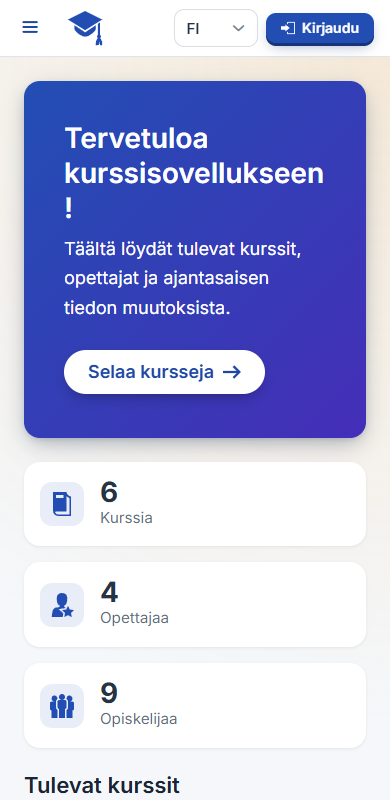
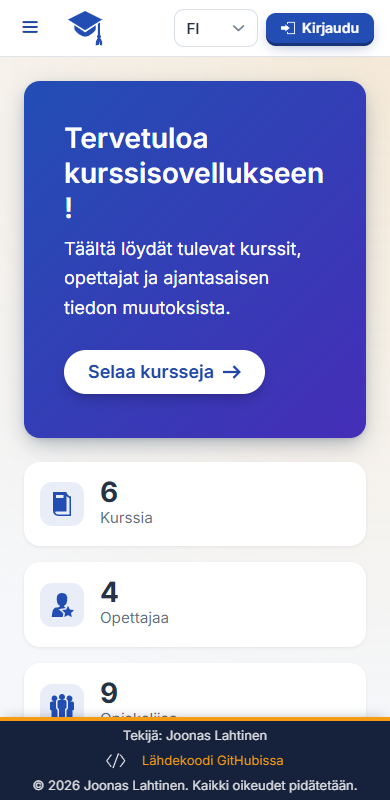
Vaatimustarkistuksen korjaukset: virhetilojen näkyvyys, suomenkieliset päivämääräkentät, footer kiinnitetty näkymän alaosaan
- Sähköposti- ja päivämääräkentät näyttävät nyt virheviestin (aiemmin Vaadinin oma
  validointi hylkäsi arvon tyhjällä viestillä)
- Virheelliset kentät korostetaan punaisella
- Footer pysyy ikkunan alareunassa (sticky), tiivis mobiilissa
- Raportin rivinumerot ja kuvaukset päivitetty

Claude-Session: https://claude.ai/code/session_01SbJ7ahXYquiG6siuov7Bdn

Changed region(s): [[0.0, 0.875, 1.0, 1.0]]

diff --git a/src/main/frontend/themes/kurssiteema/layout.css b/src/main/frontend/themes/kurssiteema/layout.css
@@ -89,17 +89,27 @@ vaadin-side-nav-item[current]::part(content) {
   min-height: calc(100vh - var(--vaadin-app-layout-navbar-offset-size, 56px));
 }
 
+/*
+ * Footer on kiinnitetty näkymän alaosaan (vaatimus 15): position: sticky + bottom: 0 pitää sen
+ * näkyvissä ikkunan alareunassa sisältöä vieritettäessä, ja sivun lopussa se asettuu luonnolliselle
+ * paikalleen sisällön alle. position: fixed peittäisi sivun viimeiset rivit pysyvästi ja vaatisi
+ * arvatun alamarginaalin sisällölle; sticky välttää molemmat.
+ */
 .app-footer {
+  position: sticky;
+  bottom: 0;
+  z-index: 2;
   flex-shrink: 0;
   display: flex;
   flex-wrap: wrap;
   justify-content: space-between;
   align-items: center;
-  gap: var(--lumo-space-s) var(--lumo-space-l);
-  padding: var(--lumo-space-m) var(--lumo-space-l);
+  gap: var(--lumo-space-xs) var(--lumo-space-l);
+  padding: var(--lumo-space-s) var(--lumo-space-l);
   background: hsl(222, 45%, 16%);
   color: hsla(0, 0%, 100%, 0.85);
   border-top: 4px solid var(--app-accent);
+  box-shadow: 0 -4px 12px -6px rgba(15, 23, 42, 0.35);
   font-size: var(--lumo-font-size-s);
 }
 
@@ -125,15 +135,22 @@ vaadin-side-nav-item[current]::part(content) {
   align-items: center;
 }
 
-/* Responsiivisuus: kapealla näytöllä footerin osiot pinotaan keskitetysti allekkain. */
+/* Responsiivisuus: kapealla näytöllä osiot pinotaan keskitetysti ja toissijaiset tiedot (kurssin nimi,
+   versio, Vaadin-linkki) piilotetaan, jotta aina näkyvä footer ei vie liikaa pystytilaa. */
 @media (max-width: 700px) {
   .app-footer {
     flex-direction: column;
     text-align: center;
+    padding: var(--lumo-space-xs) var(--lumo-space-m);
+    font-size: var(--lumo-font-size-xs);
   }
 
   .app-footer .footer-section {
     align-items: center;
+  }
+
+  .app-footer .footer-secondary {
+    display: none;
   }
 }
 

diff --git a/src/main/frontend/themes/kurssiteema/styles.css b/src/main/frontend/themes/kurssiteema/styles.css
@@ -95,6 +95,21 @@ vaadin-select[focused]::part(input-field) {
   box-shadow: 0 0 0 3px var(--lumo-primary-color-10pct);
 }
 
+/* Virhetila: koska yllä pakotetaan valkoinen tausta, Lumon oma punertava virhetausta ei näkyisi, ja
+   virheellinen kenttä erottuisi vain pienestä tekstistä. Punainen reuna + taustasävy palauttavat sen. */
+vaadin-text-field[invalid]::part(input-field),
+vaadin-email-field[invalid]::part(input-field),
+vaadin-password-field[invalid]::part(input-field),
+vaadin-integer-field[invalid]::part(input-field),
+vaadin-text-area[invalid]::part(input-field),
+vaadin-date-picker[invalid]::part(input-field),
+vaadin-combo-box[invalid]::part(input-field),
+vaadin-multi-select-combo-box[invalid]::part(input-field),
+vaadin-select[invalid]::part(input-field) {
+  border-color: var(--lumo-error-color);
+  background-color: var(--lumo-error-color-10pct);
+}
+
 /* --- Yleiskäyttöiset luokat --- */
 
 /* Hover/focus/transition-määritys kortille (vaatimus 10). Kortti zoomaa 3 % hoverissa; fokus näytetään

diff --git a/src/main/java/fi/lahtinen/kurssit/ui/components/FormFields.java b/src/main/java/fi/lahtinen/kurssit/ui/components/FormFields.java
@@ -1,0 +1,61 @@
+package fi.lahtinen.kurssit.ui.components;
+
+import com.vaadin.flow.component.datepicker.DatePicker;
+import com.vaadin.flow.component.textfield.EmailField;
+
+import java.util.List;
+import java.util.Locale;
+
+/**
+ * Yhtenäisesti konfiguroidut lomakekentät.
+ * <p>
+ * Syy erilliseen tehtaaseen: Vaadinin EmailField ja DatePicker validoivat syötteen myös itse
+ * (sähköpostin muoto, päivämäärän jäsennys) ennen Binderin Bean Validation -sääntöjä. Jos niiden
+ * omia virheviestejä ei aseteta, kenttä hylkää arvon <em>tyhjällä</em> viestillä eikä entiteetin
+ * annotaatioon kirjoitettu viesti koskaan näy. Lisäksi DatePickerin kalenteri on oletuksena englanniksi.
+ */
+public final class FormFields {
+
+    private static final String DEFAULT_MIN_MESSAGE = "Päivämäärä on liian aikainen";
+    private static final String DEFAULT_MAX_MESSAGE = "Päivämäärä ei voi olla tulevaisuudessa";
+
+    private FormFields() {
+    }
+
+    public static EmailField email(String label) {
+        EmailField field = new EmailField(label);
+        field.setI18n(new EmailField.EmailFieldI18n()
+                .setPatternErrorMessage("Sähköpostiosoite ei ole kelvollinen"));
+        return field;
+    }
+
+    /**
+     * Suomenkielinen päivämäärävalitsin. Muoto d.M.yyyy ja viikon alku maanantaina vastaavat
+     * suomalaista käytäntöä; Locale asetetaan, jotta myös käsin kirjoitettu päivämäärä jäsennetään oikein.
+     * <p>
+     * Min/max-viestit ovat pakollisia, jos kentälle asetetaan setMin/setMax: muuten DatePicker hylkää
+     * rajan ylittävän arvon tyhjällä virheviestillä, eikä käyttäjä näe, mikä on vialla.
+     */
+    public static DatePicker date(String label) {
+        return date(label, DEFAULT_MIN_MESSAGE, DEFAULT_MAX_MESSAGE);
+    }
+
+    public static DatePicker date(String label, String minErrorMessage, String maxErrorMessage) {
+        DatePicker picker = new DatePicker(label);
+        picker.setLocale(Locale.of("fi", "FI"));
+        picker.setI18n(new DatePicker.DatePickerI18n()
+                .setMonthNames(List.of("tammikuu", "helmikuu", "maaliskuu", "huhtikuu", "toukokuu", "kesäkuu",
+                        "heinäkuu", "elokuu", "syyskuu", "lokakuu", "marraskuu", "joulukuu"))
+                .setWeekdays(List.of("sunnuntai", "maanantai", "tiistai", "keskiviikko", "torstai", "perjantai",
+                        "lauantai"))
+                .setWeekdaysShort(List.of("su", "ma", "ti", "ke", "to", "pe", "la"))
+                .setFirstDayOfWeek(1)
+                .setToday("Tänään")
+                .setCancel("Peruuta")
+                .setDateFormat("d.M.yyyy")
+                .setBadInputErrorMessage("Virheellinen päivämäärä, käytä muotoa p.k.vvvv")
+                .setMinErrorMessage(minErrorMessage)
+                .setMaxErrorMessage(maxErrorMessage));
+        return picker;
+    }
+}

diff --git a/src/main/java/fi/lahtinen/kurssit/ui/components/AppFooter.java b/src/main/java/fi/lahtinen/kurssit/ui/components/AppFooter.java
@@ -12,8 +12,9 @@ import com.vaadin.flow.i18n.LocaleChangeObserver;
 /**
  * Sovelluksen footer (vaatimus 15): tekijä, copyright ja linkit.
  * <p>
- * Kiinnitys alaosaan, visuaalinen erottuminen (tumma tausta + korostusvärinen yläreuna) ja
- * responsiivisuus on toteutettu CSS:ssä ({@code layout.css}, luokka {@code .app-footer}).
+ * Kiinnitys näkymän alaosaan (sticky), visuaalinen erottuminen (tumma tausta + korostusvärinen
+ * yläreuna + varjo) ja responsiivisuus on toteutettu CSS:ssä ({@code layout.css}, luokka
+ * {@code .app-footer}). {@code footer-secondary}-osat piilotetaan kapealla näytöllä.
  * Semanttinen {@code <footer>}-elementti auttaa ruudunlukijoita tunnistamaan alueen.
  */
 public class AppFooter extends Footer implements LocaleChangeObserver {
@@ -28,16 +29,20 @@ public class AppFooter extends Footer implements LocaleChangeObserver {
     public AppFooter() {
         addClassName("app-footer");
 
+        course.addClassName("footer-secondary");
         Div about = new Div(author, course);
         about.addClassName("footer-section");
 
         sourceLink.getElement().setAttribute("rel", "noopener");
         Anchor docsLink = new Anchor("https://vaadin.com/docs/v24", "Vaadin docs", AnchorTarget.BLANK);
         docsLink.getElement().setAttribute("rel", "noopener");
+        docsLink.addClassName("footer-secondary");
         Div links = new Div(VaadinIcon.CODE.create(), sourceLink, docsLink);
         links.addClassName("footer-links");
 
-        Div legal = new Div(copyright, new Span("v1.0"));
+        Span version = new Span("v1.0");
+        version.addClassName("footer-secondary");
+        Div legal = new Div(copyright, version);
         legal.addClassName("footer-section");
 
         add(about, links, legal);

diff --git a/src/main/java/fi/lahtinen/kurssit/ui/views/StudentView.java b/src/main/java/fi/lahtinen/kurssit/ui/views/StudentView.java
@@ -42,6 +42,7 @@ import fi.lahtinen.kurssit.service.CourseService;
 import fi.lahtinen.kurssit.service.CsvService;
 import fi.lahtinen.kurssit.service.StudentService;
 import fi.lahtinen.kurssit.ui.MainLayout;
+import fi.lahtinen.kurssit.ui.components.FormFields;
 import fi.lahtinen.kurssit.ui.components.Notifications;
 import jakarta.annotation.security.RolesAllowed;
 import org.springframework.orm.ObjectOptimisticLockingFailureException;
@@ -212,10 +213,10 @@ public class StudentView extends VerticalLayout {
         studentNumber.setPlaceholder("S123456");
         TextField firstName = new TextField("Etunimi");
         TextField lastName = new TextField("Sukunimi");
-        EmailField email = new EmailField("Sähköposti");
-        DatePicker birthDate = new DatePicker("Syntymäaika");
+        EmailField email = FormFields.email("Sähköposti");
+        DatePicker birthDate = FormFields.date("Syntymäaika");
         birthDate.setMax(LocalDate.now().minusDays(1));
-        DatePicker enrolledAt = new DatePicker("Opinnot alkaneet");
+        DatePicker enrolledAt = FormFields.date("Opinnot alkaneet");
         enrolledAt.setMax(LocalDate.now());
         // M:N-relaation muokkaus: useiden kurssien valinta
         MultiSelectComboBox<Course> courses = new MultiSelectComboBox<>("Kurssit");

diff --git a/src/main/java/fi/lahtinen/kurssit/ui/views/CourseSearchView.java b/src/main/java/fi/lahtinen/kurssit/ui/views/CourseSearchView.java
@@ -31,6 +31,7 @@ import fi.lahtinen.kurssit.service.CourseService;
 import fi.lahtinen.kurssit.service.StudentService;
 import fi.lahtinen.kurssit.service.TeacherService;
 import fi.lahtinen.kurssit.ui.MainLayout;
+import fi.lahtinen.kurssit.ui.components.FormFields;
 import jakarta.annotation.security.PermitAll;
 
 import java.time.format.DateTimeFormatter;
@@ -54,8 +55,8 @@ public class CourseSearchView extends VerticalLayout {
     private final TextField name = new TextField("Nimi sisältää");
     private final IntegerField minCredits = new IntegerField("Opintopisteitä vähintään");
     // Kohta 2: päivämääräväli
-    private final DatePicker startFrom = new DatePicker("Alkaa aikaisintaan");
-    private final DatePicker startTo = new DatePicker("Alkaa viimeistään");
+    private final DatePicker startFrom = FormFields.date("Alkaa aikaisintaan");
+    private final DatePicker startTo = FormFields.date("Alkaa viimeistään", "Yläraja ei voi olla ennen alarajaa", null);
     // Kohta 3: relaatioentiteetti (JOIN M:N)
     private final ComboBox<Student> student = new ComboBox<>("Ilmoittautunut opiskelija");
     // Kohta 4: relaatioentiteetin ominaisuus (JOIN + LIKE)

diff --git a/src/main/java/fi/lahtinen/kurssit/ui/views/CourseView.java b/src/main/java/fi/lahtinen/kurssit/ui/views/CourseView.java
@@ -50,6 +50,7 @@ import fi.lahtinen.kurssit.service.FileStorageService;
 import fi.lahtinen.kurssit.service.HistoryService;
 import fi.lahtinen.kurssit.service.TeacherService;
 import fi.lahtinen.kurssit.ui.MainLayout;
+import fi.lahtinen.kurssit.ui.components.FormFields;
 import fi.lahtinen.kurssit.ui.components.HistoryTimeline;
 import fi.lahtinen.kurssit.ui.components.Notifications;
 import fi.lahtinen.kurssit.ui.components.QuillEditor;
@@ -99,8 +100,8 @@ public class CourseView extends SplitLayout {
     private final TextField name = new TextField("Nimi");
     private final IntegerField credits = new IntegerField("Opintopisteet");
     private final IntegerField maxStudents = new IntegerField("Max. osallistujat");
-    private final DatePicker startDate = new DatePicker("Alkaa");
-    private final DatePicker endDate = new DatePicker("Päättyy");
+    private final DatePicker startDate = FormFields.date("Alkaa");
+    private final DatePicker endDate = FormFields.date("Päättyy", "Loppupäivä ei voi olla ennen alkupäivää", null);
     private final ComboBox<Teacher> teacher = new ComboBox<>("Opettaja");
     private final QuillEditor description = new QuillEditor();
 

diff --git a/src/main/java/fi/lahtinen/kurssit/ui/views/TeacherView.java b/src/main/java/fi/lahtinen/kurssit/ui/views/TeacherView.java
@@ -23,6 +23,7 @@ import fi.lahtinen.kurssit.domain.Teacher;
 import fi.lahtinen.kurssit.service.BusinessException;
 import fi.lahtinen.kurssit.service.TeacherService;
 import fi.lahtinen.kurssit.ui.MainLayout;
+import fi.lahtinen.kurssit.ui.components.FormFields;
 import fi.lahtinen.kurssit.ui.components.Notifications;
 import jakarta.annotation.security.PermitAll;
 import org.springframework.orm.ObjectOptimisticLockingFailureException;
@@ -105,10 +106,10 @@ public class TeacherView extends VerticalLayout {
 
         TextField firstName = new TextField("Etunimi");
         TextField lastName = new TextField("Sukunimi");
-        EmailField email = new EmailField("Sähköposti");
+        EmailField email = FormFields.email("Sähköposti");
         TextField phone = new TextField("Puhelin");
         TextField title = new TextField("Titteli");
-        DatePicker hireDate = new DatePicker("Työsuhde alkanut");
+        DatePicker hireDate = FormFields.date("Työsuhde alkanut");
         hireDate.setMax(LocalDate.now());
 
         // BeanValidationBinder lukee validointisäännöt entiteetin annotaatioista: säännöt on määritelty

diff --git a/src/main/java/fi/lahtinen/kurssit/ui/views/auth/RegisterView.java b/src/main/java/fi/lahtinen/kurssit/ui/views/auth/RegisterView.java
@@ -24,6 +24,7 @@ import com.vaadin.flow.server.auth.AnonymousAllowed;
 import fi.lahtinen.kurssit.service.BusinessException;
 import fi.lahtinen.kurssit.service.UserService;
 import fi.lahtinen.kurssit.ui.MainLayout;
+import fi.lahtinen.kurssit.ui.components.FormFields;
 import fi.lahtinen.kurssit.ui.components.Notifications;
 
 /**
@@ -62,7 +63,7 @@ public class RegisterView extends VerticalLayout implements LocaleChangeObserver
     private final H2 title = new H2();
     private final TextField username = new TextField();
     private final TextField fullName = new TextField();
-    private final EmailField email = new EmailField();
+    private final EmailField email = FormFields.email(null);
     private final PasswordField password = new PasswordField();
     private final PasswordField confirm = new PasswordField();
     private final Button submit = new Button();

diff --git a/src/main/java/fi/lahtinen/kurssit/ui/views/auth/ForgotPasswordView.java b/src/main/java/fi/lahtinen/kurssit/ui/views/auth/ForgotPasswordView.java
@@ -16,6 +16,7 @@ import com.vaadin.flow.router.RouterLink;
 import com.vaadin.flow.server.auth.AnonymousAllowed;
 import fi.lahtinen.kurssit.service.PasswordResetService;
 import fi.lahtinen.kurssit.ui.MainLayout;
+import fi.lahtinen.kurssit.ui.components.FormFields;
 import fi.lahtinen.kurssit.ui.components.Notifications;
 
 /**
@@ -28,7 +29,7 @@ public class ForgotPasswordView extends VerticalLayout implements LocaleChangeOb
 
     private final H2 title = new H2();
     private final Paragraph info = new Paragraph();
-    private final EmailField email = new EmailField();
+    private final EmailField email = FormFields.email(null);
     private final Button submit = new Button();
     private final RouterLink back = new RouterLink("", LoginView.class);
 

diff --git a/RAPORTTI.md b/RAPORTTI.md
@@ -41,13 +41,13 @@ Jokaisella entiteetillä on listaussivu (Grid), lomake uuden luomiseen, lomake m
 
 | Kohta | Toteutus | Missä |
 |---|---|---|
-| **1. Ensimmäinen entiteetti** | `Teacher` (opettaja) | `domain/Teacher.java`, `repository/TeacherRepository.java`, `service/TeacherService.java`, näkymä `ui/views/TeacherView.java` (reitti `/teachers`): grid + dialogilomake (uusi/muokkaa) + poisto `confirmDelete` (r. 161) |
-| **2. 1:1-relaatio** | `Office` (työhuone) 1:1 `Teacher`. Office omistaa vierasavaimen `teacher_id`, jolla on `unique = true` (`Office.java` r. 51). Käänteinen puoli on `Teacher.office` (`mappedBy`, r. 59). | Relaatio näkyy opettajagridin sarakkeessa **"Työhuone"** (`TeacherView.java` r. 64–70) ja työhuonegridin sarakkeessa **"Opettaja"** (`OfficeView.java`). CRUD: `ui/views/OfficeView.java` (`/offices`), `OfficeService`, `OfficeRepository`. |
-| **3. 1:N-relaatio** | `Teacher` 1:N `Course` (`Course.teacher` `@ManyToOne`, r. 69; `Teacher.courses` `@OneToMany`, r. 62) | Relaatio näkyy kurssigridin sarakkeessa **"Opettaja"** (`CourseView.java` r. 142). CRUD: `ui/views/CourseView.java` (`/courses`, master–detail), `CourseService`, `CourseRepository`. |
-| **4. M:N-relaatio** | `Student` M:N `Course`, liitostaulu `course_student`. Omistava puoli on `Student.courses` (`Student.java` r. 62), käänteinen `Course.students` (r. 72). | Relaatio näkyy opiskelijagridin sarakkeessa **"Kurssit"** badgeina (`StudentView.java` r. 95) ja kurssigridin sarakkeessa **"Opiskelijat"** (täyttöaste, nimet tooltipissä, `CourseView.java` r. 148). Lomakkeessa ilmoittautumiset muokataan `MultiSelectComboBox`illa. CRUD: `ui/views/StudentView.java` (`/students`). |
+| **1. Ensimmäinen entiteetti** | `Teacher` (opettaja) | `domain/Teacher.java`, `repository/TeacherRepository.java`, `service/TeacherService.java`, näkymä `ui/views/TeacherView.java` (reitti `/teachers`): grid + dialogilomake (uusi/muokkaa) + poisto `confirmDelete` (r. 162) |
+| **2. 1:1-relaatio** | `Office` (työhuone) 1:1 `Teacher`. Office omistaa vierasavaimen `teacher_id`, jolla on `unique = true` (`Office.java` r. 51). Käänteinen puoli on `Teacher.office` (`mappedBy`, r. 59). | Relaatio näkyy opettajagridin sarakkeessa **"Työhuone"** (`TeacherView.java` r. 65–71) ja työhuonegridin sarakkeessa **"Opettaja"** (`OfficeView.java`). CRUD: `ui/views/OfficeView.java` (`/offices`), `OfficeService`, `OfficeRepository`. |
+| **3. 1:N-relaatio** | `Teacher` 1:N `Course` (`Course.teacher` `@ManyToOne`, r. 69; `Teacher.courses` `@OneToMany`, r. 62) | Relaatio näkyy kurssigridin sarakkeessa **"Opettaja"** (`CourseView.java` r. 143). CRUD: `ui/views/CourseView.java` (`/courses`, master–detail), `CourseService`, `CourseRepository`. |
+| **4. M:N-relaatio** | `Student` M:N `Course`, liitostaulu `course_student`. Omistava puoli on `Student.courses` (`Student.java` r. 62), käänteinen `Course.students` (r. 72). | Relaatio näkyy opiskelijagridin sarakkeessa **"Kurssit"** badgeina (`StudentView.java` r. 96) ja kurssigridin sarakkeessa **"Opiskelijat"** (täyttöaste, nimet tooltipissä, `CourseView.java` r. 149). Lomakkeessa ilmoittautumiset muokataan `MultiSelectComboBox`illa. CRUD: `ui/views/StudentView.java` (`/students`). |
 | **5. Validoitavia kenttiä ≥ 5 / entiteetti** | Bean Validation -annotaatiot entiteeteissä, lomakkeissa `BeanValidationBinder`, joka näyttää virheet kentän vieressä. | **Teacher:** @NotBlank ×3, @Size ×3, @Email, @Pattern (puhelin), @NotNull, @PastOrPresent<br>**Office:** @NotBlank ×2, @Pattern ×2 (huone `A123`, alanumero), @Size, @Min/@Max (kerros), @Positive, @NotNull ×3<br>**Course:** @NotBlank ×2, @Pattern (koodi `ABC-123`), @Size ×2, @Min/@Max (op), @NotNull ×5, @Positive, @Max, @AssertTrue (loppupäivä ≥ alkupäivä, `Course.java` r. 82)<br>**Student:** @Pattern (`S123456`), @NotBlank ×4, @Size ×2, @Email, @Past, @PastOrPresent, @NotNull ×2<br>(Myös `CourseAttachment` ja `AppUser` sisältävät ≥ 5 validointia.) |
 
-Lisäksi käytössä ovat optimistinen lukitus (`@Version` kentässä `AbstractAuditableEntity`) sekä yksilöllisyystarkistukset palvelukerroksessa (sähköposti, kurssikoodi, opiskelijanumero).
+Virheelliset kentät näytetään punaisina ja virheviesti kentän alla. `ui/components/FormFields.java` antaa sähköposti- ja päivämääräkentille suomenkieliset virheviestit; muuten Vaadinin kenttien oma validointi hylkäisi arvon tyhjällä viestillä ennen entiteetin sääntöjä. Lisäksi käytössä ovat optimistinen lukitus (`@Version` kentässä `AbstractAuditableEntity`) sekä yksilöllisyystarkistukset palvelukerroksessa (sähköposti, kurssikoodi, opiskelijanumero).
 
 ![Kurssit master–detail](docs/kuvat/admin-course-edit.png)
 
@@ -87,13 +87,13 @@ Teeman tiedostot ovat hakemistossa `src/main/frontend/themes/kurssiteema/`, ja t
 
 | Kohta | Toteutus |
 |---|---|
-| **6. Globaalit tyylit** | `styles.css`:<br>• **perusfontti:** Inter (Google Fonts), `--lumo-font-family` (r. 21)<br>• **oma väripaletti:** syvä sininen pääväri ja meripihkan sävyinen korostusväri, `--lumo-primary-color*`, success/error-värit ja `--app-accent` (r. 25–44)<br>• **komponenttien kaarevuus:** `--lumo-border-radius-s/m/l` (r. 47–49)<br>• **nappien syvyys:** primary-napeilla "fyysinen" alareuna ja varjo, joka painuu klikatessa (r. 57–67)<br>• **tekstikenttien ulkoasu:** valkoinen tausta, ohut reuna ja fokusrengas `::part(input-field)` (r. 71–96) |
+| **6. Globaalit tyylit** | `styles.css`:<br>• **perusfontti:** Inter (Google Fonts) varafontteineen, `--lumo-font-family` (r. 21)<br>• **oletusfontin koko:** `--lumo-font-size-m: 0.95rem` (r. 22)<br>• **oma väripaletti:** syvä sininen pääväri ja meripihkan sävyinen korostusväri, `--lumo-primary-color*`, success/error-värit ja `--app-accent` (r. 25–44)<br>• **komponenttien kaarevuus:** `--lumo-border-radius-s/m/l` (r. 47–49)<br>• **nappien syvyys:** primary-napeilla "fyysinen" alareuna ja varjo, joka painuu klikatessa (r. 57–67)<br>• **tekstikenttien ulkoasu:** valkoinen tausta, ohut reuna ja fokusrengas sekä punainen virhetila `::part(input-field)` (r. 71–112) |
 | **7a. addClassName** | Esim. `card.addClassName("course-card")` (`DashboardView.java` r. 201), `addClassName("dashboard-view")` (r. 102), `addClassName("app-footer")` |
 | **7b. getStyle().set()** | Kurssikortin vasen reuna `getStyle().set("border-left", ...)` (`DashboardView.java` r. 203) ja hero-osion liukuväri (r. 144) |
-| **7c. addThemeVariants** | `ButtonVariant.LUMO_PRIMARY/ERROR/TERTIARY`, `GridVariant.LUMO_ROW_STRIPES/COMPACT` (`CourseView.java` r. 154), `NotificationVariant` (`ui/components/Notifications.java`), `TabsVariant.LUMO_EQUAL_WIDTH_TABS` (`HistoryView`) |
+| **7c. addThemeVariants** | `ButtonVariant.LUMO_PRIMARY/ERROR/TERTIARY`, `GridVariant.LUMO_ROW_STRIPES/COMPACT` (`CourseView.java` r. 155), `NotificationVariant` (`ui/components/Notifications.java`), `TabsVariant.LUMO_EQUAL_WIDTH_TABS` (`HistoryView`) |
 | **8. Näkymäkohtainen CSS** | `views/dashboard-view.css`. Kaikki säännöt on rajattu `.dashboard-view`-luokkaan, jonka vain `DashboardView` asettaa itselleen. Tyylit vaikuttavat useaan Vaadin-komponenttiin samassa näkymässä: `h2` (otsikon alaviiva), `vaadin-button` (pyöreät napit), `vaadin-icon` (tilastoikonit) ja `vaadin-horizontal-layout` (rivittyvät korttirivit). |
 | **9. Lumo Utility -luokat** | `DashboardView.createHero()` (r. 123–147) käyttää 8:aa luokkaa: **Background**.PRIMARY, **TextColor**.PRIMARY_CONTRAST, **Padding**.XLARGE, **BoxShadow**.MEDIUM, **BorderRadius**.LARGE, **Display**.BLOCK, **FontSize**.XXXLARGE/LARGE, **Margin**.Bottom.LARGE. Lisäksi samoja luokkia käytetään korteissa (FontSize, TextColor, Margin). |
-| **10. Hover, focus ja transition** | `styles.css`:<br>• `.course-card` (r. 102–122): `transition: transform .2s, box-shadow .2s`, **`:hover` zoomaa 3 %** (`scale(1.03)`), **`:focus-visible`** näyttää fokusrenkaan. Kortti on fokusoitava (`tabindex=0`).<br>• `.fade-in-button` (r. 124–148): **fade-in-animaatio** `@keyframes fadeInUp`, hover-kirkastus ja focus-outline.<br>• `prefers-reduced-motion` poistaa animaatiot saavutettavuuden vuoksi. |
+| **10. Hover, focus ja transition** | `styles.css`:<br>• `.course-card` (r. 117–137): `transition: transform .2s, box-shadow .2s`, **`:hover` zoomaa 3 %** (`scale(1.03)`), **`:focus-visible`** näyttää fokusrenkaan. Kortti on fokusoitava (`tabindex=0`).<br>• `.fade-in-button` (r. 139–163): **fade-in-animaatio** `@keyframes fadeInUp`, hover-kirkastus ja focus-outline.<br>• `prefers-reduced-motion` poistaa animaatiot saavutettavuuden vuoksi. |
 
 ![Etusivu](docs/kuvat/anon-dashboard.png)
 
@@ -107,7 +107,7 @@ Teeman tiedostot ovat hakemistossa `src/main/frontend/themes/kurssiteema/`, ja t
 | **12. ≥ 3 erityyppistä layoutia** | (a) **DashboardView** (`/`): hero + korttiruudukko (CSS grid) + live-lista<br>(b) **CourseView** (`/courses`): master–detail **SplitLayout** (grid vasemmalla, lomake oikealla)<br>(c) **HistoryView** (`/admin/history`): **Tabs + pystysuuntainen aikajana**<br>(d) TeacherView/StudentView: grid + **Dialog**-lomake<br>(e) ProfileView ja kirjautumissivut: keskitetty kortti |
 | **13. Header** | `MainLayout.createHeader()` (r. 115–149) ja `createUserSection()` (r. 151–): **DrawerToggle**, **logo** (ACADEMY_CAP-ikoni) + **sovelluksen nimi**, kielivalitsin, **käyttäjän tunniste** (Avatar ja nimi, profiilikuva jos asetettu) sekä **logout-painike** (`AuthenticationContext.logout()`). Kirjautumattomalle näytetään Kirjaudu- ja Rekisteröidy-napit. |
 | **14. Navigointipalkki** | `MainLayout.createDrawer()` (r. 205–223): `SideNav`, jossa **jokaisella näkymällä on oma ikoni** (HOME, BOOK, SEARCH, USER_STAR, OFFICE, GROUP, USER_CARD, KEY, TIME_BACKWARD). SideNav **korostaa aktiivisen sivun** automaattisesti (`current`-attribuutti), ja korostusta on vahvistettu korostusvärisellä reunaviivalla (`layout.css` r. 52). Valikossa näytetään vain linkit, joihin käyttäjällä on oikeus (`AccessAnnotationChecker`). |
-| **15. Footer** | `ui/components/AppFooter.java` + `layout.css` (r. 92–138): **tekijän nimi**, **© 2026**, **linkit** (GitHub ja Vaadin docs) ja versio. Footer on **kiinnitetty näkymän alaosaan** (sticky footer: flex-sarake ja `flex: 1` sisällölle). Se **erottuu visuaalisesti** tumman taustan ja korostusvärisen yläreunan ansiosta ja on **responsiivinen**: `@media (max-width: 700px)` pinoaa osiot keskitetysti. |
+| **15. Footer** | `ui/components/AppFooter.java` + `layout.css` (r. 92–156): **tekijän nimi**, **© 2026**, **linkit** (GitHub-repositorio ja Vaadin docs) ja versio. Footer on **kiinnitetty näkymän alaosaan** `position: sticky; bottom: 0` -määrityksellä: se pysyy ikkunan alareunassa sisältöä vieritettäessä ja asettuu sivun lopussa sisällön alle, joten se ei peitä viimeisiä rivejä pysyvästi. Lyhyellä sivulla sisältöalue venyy (`flex: 1`), joten footer on silloinkin alareunassa. Footer **erottuu visuaalisesti** tumman taustan, korostusvärisen yläreunan ja varjon ansiosta. Se on **responsiivinen**: `@media (max-width: 700px)` (r. 140) pinoaa osiot keskitetysti ja piilottaa toissijaiset tiedot, jotta aina näkyvä footer ei vie liikaa tilaa mobiilissa. |
 
 ![Mobiilinäkymä](docs/kuvat/mobile-dashboard.png)
 
@@ -118,7 +118,7 @@ Teeman tiedostot ovat hakemistossa `src/main/frontend/themes/kurssiteema/`, ja t
 | Kohta | Toteutus |
 |---|---|
 | **16. Spring Security + oma käyttäjäentiteetti** | `config/SecurityConfig.java` (`extends VaadinWebSecurity`, `setLoginView`). Oma entiteetti on `domain/AppUser.java` (taulu `app_user`), ja roolit **ADMIN, SUPER ja USER** ovat enumissa `domain/Role.java`. **Salasanaa ei tallenneta**: kentässä `passwordHash` on vain **BCrypt-tiiviste** (`BCryptPasswordEncoder`, `SecurityConfig.java` r. 44). Tunnistus tapahtuu `security/AppUserDetailsService.java`:n kautta. Käyttäjät **admin/admin123** ja **user/user123** (sekä super/super123) luodaan `config/DataInitializer.java`:ssa. |
-| **16. Roolipohjaiset sivut** | • **Kaikki** näkevät päänäkymän: `DashboardView` `@AnonymousAllowed`<br>• **Kirjautuneet** näkevät: `CourseView`, `CourseSearchView`, `TeacherView`, `OfficeView`, `ProfileView` (`@PermitAll`)<br>• **Super ja user** näkevät: `StudentView` `@RolesAllowed({"SUPER","USER"})` (`StudentView.java` r. 68)<br>• **Vain admin** näkee: `UserAdminView` ja `HistoryView` `@RolesAllowed("ADMIN")` |
+| **16. Roolipohjaiset sivut** | • **Kaikki** näkevät päänäkymän: `DashboardView` `@AnonymousAllowed`<br>• **Kirjautuneet** näkevät: `CourseView`, `CourseSearchView`, `TeacherView`, `OfficeView`, `ProfileView` (`@PermitAll`)<br>• **Super ja user** näkevät: `StudentView` `@RolesAllowed({"SUPER","USER"})` (`StudentView.java` r. 69)<br>• **Vain admin** näkee: `UserAdminView` ja `HistoryView` `@RolesAllowed("ADMIN")` |
 | **17. Rekisteröitymissivu** | `ui/views/auth/RegisterView.java` (`/register`). Kentät validoidaan, ja palvelu `UserService.register` tarkistaa tunnuksen ja sähköpostin yksilöllisyyden. Uusi käyttäjä saa aina USER-roolin; rooli asetetaan palvelimella, joten sitä ei voi manipuloida selaimesta. |
 | **18. Oma virheviesti puuttuville oikeuksille** | `ui/views/AccessDeniedView.java` (`implements HasErrorParameter<AccessDeniedException>`, HTTP 403). Suojatuissa näkymissä on `@AccessDeniedErrorRouter(rerouteToError = AccessDeniedException.class)`, jottei Vaadin tuotantotilassa näytä oletusarvoista 404-sivua. Kokeilu: kirjaudu `user`-tunnuksella ja avaa `/admin/users`, tai `admin`-tunnuksella `/students`. |
 | **19. Oma kuva käyttäjälle** | `ui/views/ProfileView.java` (`/profile`): `Upload` hyväksyy PNG/JPEG-kuvan (max 2 Mt). Tallennus tehdään metodissa `UserService.updateProfileImage`, joka tarkistaa tyypin ja koon. Kuva näkyy profiilissa ja headerin Avatarissa (`MainLayout.java` r. 194, `DownloadHandler`). |
@@ -133,13 +133,13 @@ Teeman tiedostot ovat hakemistossa `src/main/frontend/themes/kurssiteema/`, ja t
 | Kohta | Toteutus |
 |---|---|
 | **21. GitHub** | Repositorio: https://github.com/BlackTempo/kurssisovellus. Commit-historia dokumentoi työn etenemisen. README.md sisältää käynnistysohjeet ja demotunnukset. |
-| **22. Vaadin Server Push** | `@Push` (`config/AppShell.java` r. 18). `service/Broadcaster.java` välittää `DataChangedEvent`-tapahtumat **commitin jälkeen** (`@TransactionalEventListener(AFTER_COMMIT)`) kaikille avoimille UI:lle. `DashboardView` (r. 232) päivittää "Live-muutokset"-listan ja tilastot, ja `CourseView` (r. 407) päivittää gridin ja näyttää ilmoituksen. UI:ta muokataan `ui.access()`-kutsun sisällä, ja rekisteröinti poistetaan `onDetach`-metodissa. *Kokeilu: avaa etusivu yhdessä selaimessa ja muokkaa kurssia toisessa.* |
+| **22. Vaadin Server Push** | `@Push` (`config/AppShell.java` r. 18). `service/Broadcaster.java` välittää `DataChangedEvent`-tapahtumat **commitin jälkeen** (`@TransactionalEventListener(AFTER_COMMIT)`) kaikille avoimille UI:lle. `DashboardView` (r. 232) päivittää "Live-muutokset"-listan ja tilastot, ja `CourseView` (r. 408) päivittää gridin ja näyttää ilmoituksen. UI:ta muokataan `ui.access()`-kutsun sisällä, ja rekisteröinti poistetaan `onDetach`-metodissa. *Kokeilu: avaa etusivu yhdessä selaimessa ja muokkaa kurssia toisessa.* |
 | **23. Lokalisointi (fi/en)** | `src/main/resources/vaadin-i18n/translations{,_fi,_en}.properties` (Vaadin `DefaultI18NProvider`). Kielivalitsin on headerissa (`MainLayout.java` r. 130–137) ja tallentaa kielen `VaadinSession`iin. Kokonaan lokalisoituja ovat **MainLayout (navigaatio, header), footer, etusivu, kirjautuminen, rekisteröityminen, salasanan palautus ja pääsy evätty -sivu** (`LocaleChangeObserver`). Selaimen kieli valitaan automaattisesti. |
 | **24. Docker-image + Dockerfile** | `Dockerfile`: monivaiheinen build (JDK + `-Pproduction` → JRE), ajo ei-root-käyttäjänä ja upload-volume. Vaadin ajetaan tuotantotilassa valmiiksi käännetyllä frontend-bundlella. |
 | **25. docker-compose** | `docker-compose.yml`: **PostgreSQL 16** (healthcheck + volume), **sovellus** (käynnistyy, kun kanta on terve) ja **Mailpit** (SMTP + web-UI portissa 8025). Käynnistys: `docker compose up --build`. |
 | **26. Sähköposti ylläpidolle uudesta käyttäjästä** | `UserService.register` julkaisee `UserRegisteredEvent`in, jonka `MailService.onUserRegistered` (r. 61) käsittelee `@Async` + `@TransactionalEventListener(AFTER_COMMIT)`: viesti lähetetään kaikille ADMIN-käyttäjille vasta, kun tallennus on onnistunut, eikä SMTP-virhe kaada rekisteröintiä. Viestit näkyvät Mailpitissä. |
 | **27. Salasanan vaihto sähköpostin avulla** | `service/PasswordResetService.java`. "Unohditko salasanan?" -linkki (`ForgotPasswordView`) tai profiilisivun nappi luo 256-bittisen satunnaistokenin, josta tietokantaan (`PasswordResetToken`) tallennetaan vain **SHA-256-tiiviste**. Token on **voimassa 30 minuuttia** ja **kertakäyttöinen**. Linkki `/reset-password?token=…` avaa `ResetPasswordView`n. Vastaus on aina sama, jottei osoitteiden olemassaoloa voi selvittää. |
-| **28. Tiedoston lataus ja tallennus** | Kurssiliitteet: `CourseView` (Upload r. 336, lataus `Anchor` + `DownloadHandler` + `AttachmentType.DOWNLOAD` r. 377) ja `service/FileStorageService.java`. Tiedostot tallennetaan levylle UUID-nimellä (path traversal -suoja), metatiedot `CourseAttachment`-entiteettiin. Tyyppi- ja kokorajat (10 Mt) tarkistetaan, ja rollbackin yhteydessä levylle jäänyt tiedosto siivotaan. |
+| **28. Tiedoston lataus ja tallennus** | Kurssiliitteet: `CourseView` (Upload r. 337, lataus `Anchor` + `DownloadHandler` + `AttachmentType.DOWNLOAD` r. 378) ja `service/FileStorageService.java`. Tiedostot tallennetaan levylle UUID-nimellä (path traversal -suoja), metatiedot `CourseAttachment`-entiteettiin. Tyyppi- ja kokorajat (10 Mt) tarkistetaan, ja rollbackin yhteydessä levylle jäänyt tiedosto siivotaan. |
 | **29. CSV-tuonti ja -vienti** | `service/CsvService.java` (Apache Commons CSV). **Vienti** `exportStudents` (r. 76): UTF-8 + BOM ja puolipiste-erotin, jotta tiedosto aukeaa suoraan suomenkielisessä Excelissä. **Tuonti** `importStudents` (r. 106): jokainen rivi validoidaan entiteetin annotaatioilla, olemassa olevat opiskelijat päivitetään ja virheelliset rivit raportoidaan rivinumeroineen. Myös M:N-ilmoittautumiset siirtyvät kurssikoodeina. Napit "Vie CSV" ja "Tuo CSV" ovat opiskelijanäkymässä. |
 | **30. Spring Auditing** | `config/AuditConfig.java` (`@EnableJpaAuditing`, `AuditorAware` = kirjautunut käyttäjä tai "system"). `domain/AbstractAuditableEntity.java` sisältää kentät `@CreatedBy`, `@CreatedDate`, `@LastModifiedBy` ja `@LastModifiedDate`, ja kaikki domain-entiteetit perivät sen. Kentät näkyvät kurssigridin sarakkeessa "Muokannut" sekä käyttäjähallinnan sarakkeissa "Luotu" ja "Luonut". |
 | **31. Historiatiedot jokaisesta muutoksesta** | **Hibernate Envers**: `@Audited` kaikissa domain-entiteeteissä (myös M:N-liitostaulu ja AppUser ilman salasanaa ja kuvaa). `domain/CustomRevisionEntity.java` + `UserRevisionListener.java` tallentavat jokaiseen revisioon muutoksen tekijän. `application.properties`: `global_with_modified_flag` (muuttuneet kentät) ja `store_data_at_delete` (poistetun rivin arvot). |
